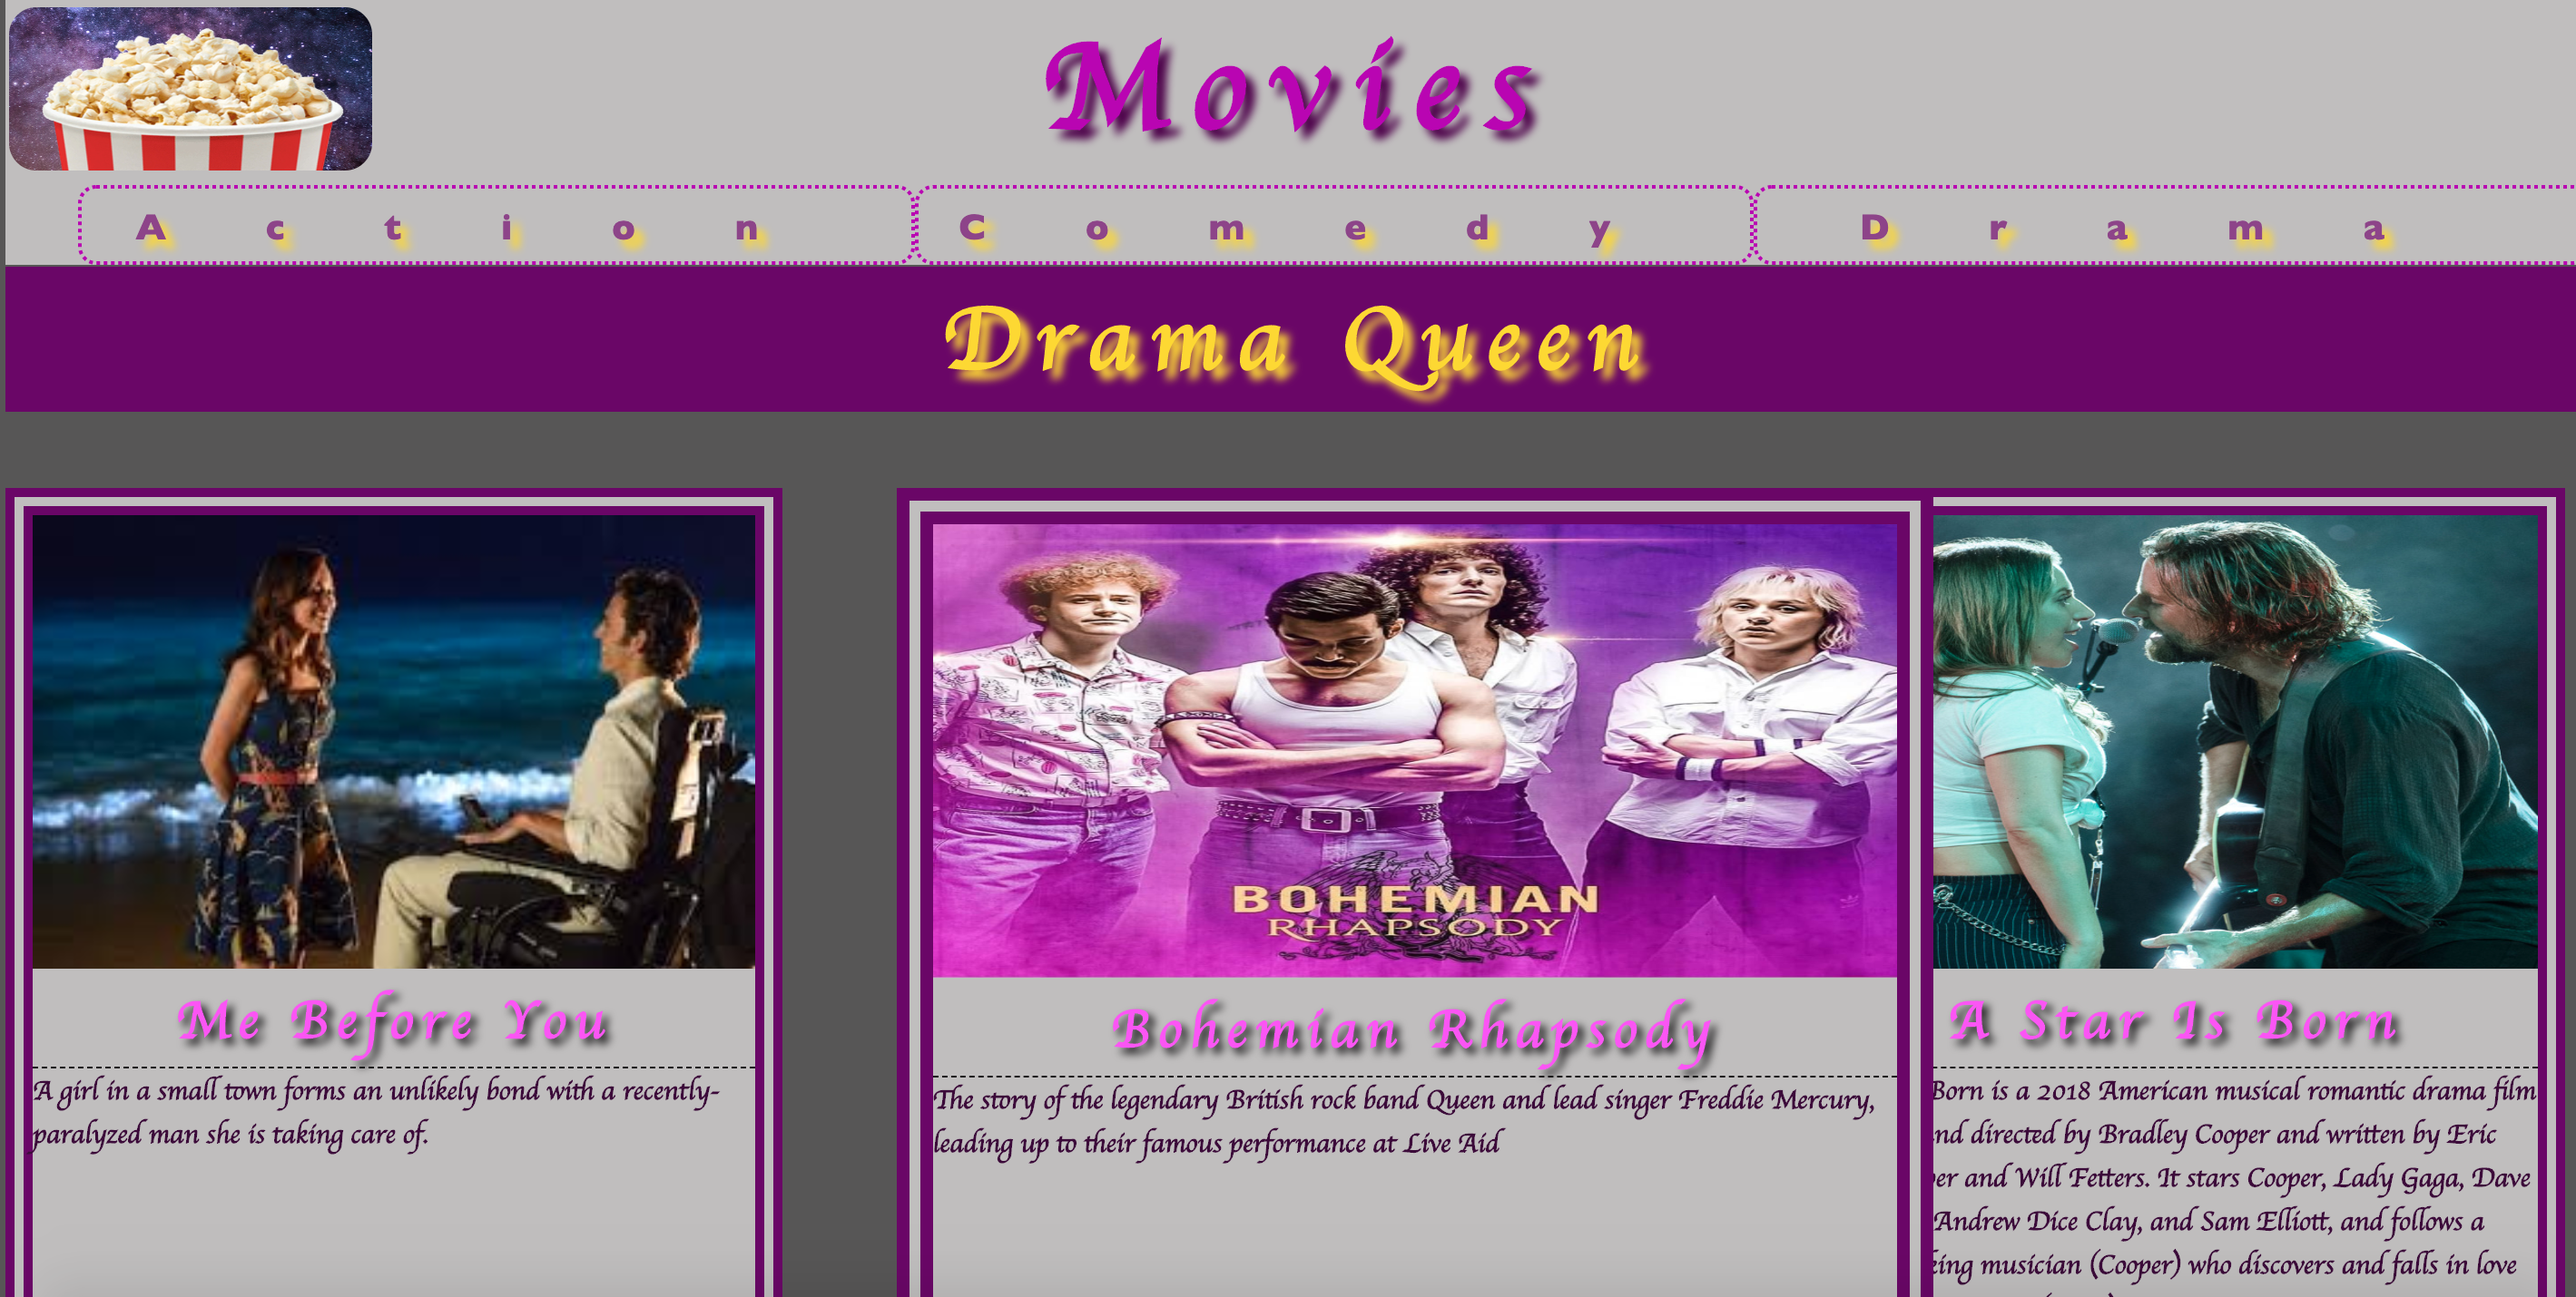
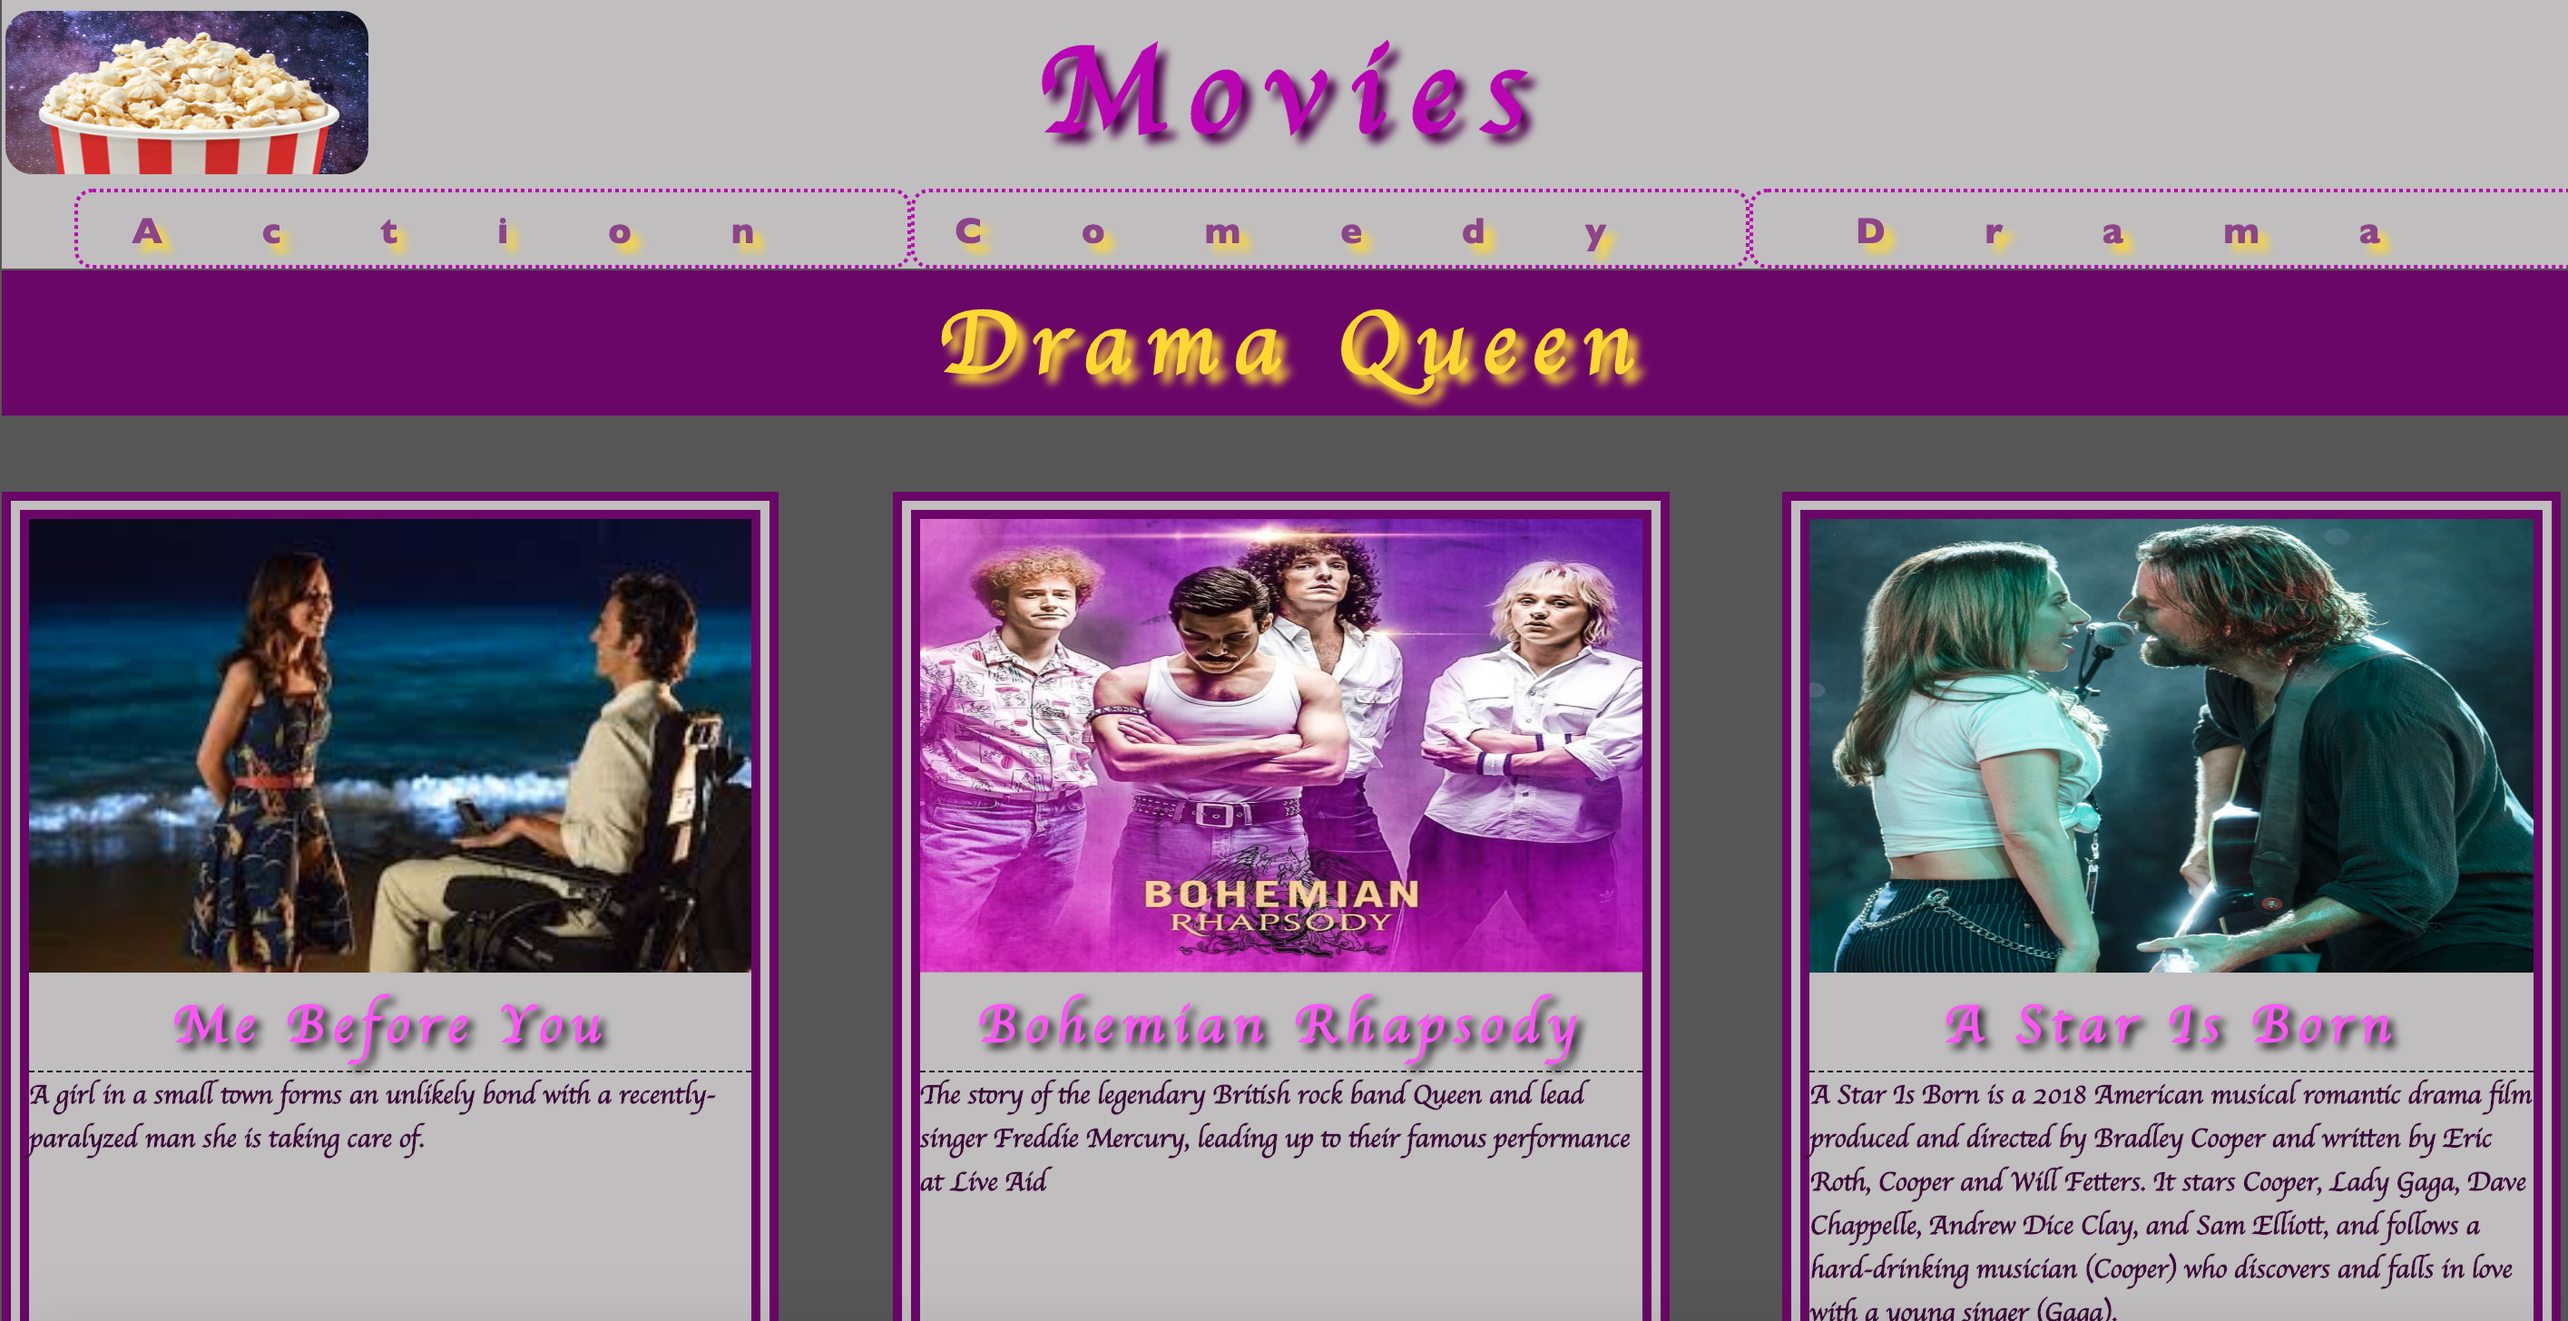
c

diff --git a/public/js/manager.js b/public/js/manager.js
@@ -1,4 +1,37 @@
-getProjects()
+// getProjects()
+function addNewProject(e) {
+    e.preventDefault();
+    let projectName=e.target.projectname.value;
+    let description=e.target.description.value;
+    let urlHeroku=e.target.urlheroku.value;
+    let urlGithub=e.target.urlgithub.value;
+    let image =e.target.image.value;
+
+    let newProject = {
+
+        projectName: projectName,
+        description: description,
+        urlHeroku: urlHeroku,
+        urlGithub: urlGithub,
+        image: image
+    }
+    fetch('/manager', {
+        method: 'POST',
+        body: JSON.stringify(newProject),
+        headers: {
+            'Content-Type': 'application/json'
+        }
+    })
+
+        .then(res => res.json())
+        .then(data => {
+            // output.innerHTML = `<h1> ${data}</h1>`;
+            console.dir(data)
+
+        }).catch(function (err) {
+            console.log('Fetch Error :-S', err)
+        })
+}
 function getProjects() {
     fetch('/getprojects')
         .then(res => {
@@ -49,42 +82,3 @@ console.log(dataDOM)
 
         })
 }
-
-const carouselSlide=document.querySelector('.carousel-slide')
-const carouselImages=document.querySelectorAll('img')
-
-const prevBtn=document.querySelector('.prevBtn')
-const nextBtn=document.querySelector('.nextBtn')
-
-let counter=1;
-const size=carouselImages[0].clientWidth;
-console.dir(carouselImages)
-carouselSlide.style.transform='translateX('+ (-size * counter)+ 'px)';
-
-nextBtn.addEventListener('click',()=>{
-    if(counter >=carouselImages.length -1)return;
-    carouselSlide.style.transition="transform 0.4s ease-in-out";
-    counter++;
-    carouselSlide.style.transform='translateX('+ (-size * counter)+ 'px)';
-})
-
-
-
-prevBtn.addEventListener('click',()=>{
-    if(counter<=0)return;
-    carouselSlide.style.transition="transform 0.4s ease-in-out";
-    counter--;
-    carouselSlide.style.transform='translateX('+ (-size * counter)+ 'px)';
-})
-carouselSlide.addEventListener('transitionend',()=>{
-    if(carouselImages[counter].className==='lastPic'){
-        carouselSlide.style.transition='none';
-        counter=carouselImages.length-2;
-        carouselSlide.style.transform='translateX('+ (-size * counter)+ 'px)';
-    }
-    if(carouselImages[counter].className==='firstPic'){
-        carouselSlide.style.transition='none';
-        counter=carouselImages.length-counter
-        carouselSlide.style.transform='translateX('+ (-size * counter)+ 'px)';
-    }
-})

diff --git a/public/index.html b/public/index.html
@@ -19,14 +19,14 @@
     <div class="menu">
         <a href="#">HOME</a>
         <a href="#">ABOUT</a>
-        <a href="#">CONTACT</a>
+        <a href="manager.html">Manager</a>
         <a href="#">Help</a>
         <a href="#" class='closebtn' onclick="closeMenu()">&times;</a>
     </div>
     <div class="carousel-container">
         <button class='fas fa-angle-double-left prevBtn'>&#xf100</button>
-        <button class="fas fa-angle-double-right nextBtn">&#xf101</button>
-        <div class="carousel-slide">
+        <button class="fas fa-angle-double-right nextBtn">&#xf101</button> 
+        <!-- <div class="carousel-slide">
             <img src="img/fetchChater.jpg" alt="" style="width: 100%;height:30vw;" class="lastPic">
             <img src="img/movies.jpg" alt="" style="width: 100%;height:30vw;">
             <img src="img/bmi.jpg" alt="" style="width: 100%;height:30vw;">
@@ -37,12 +37,24 @@
             <img src="img/backend.jpg" alt="" style="width: 100%;height:30vw;">
             <img src="img/fetchChater.jpg" alt="" style="width: 100%;height:30vw;">
             <img src="img/movies.jpg" alt="" style="width: 100%;height:30vw;" class="firstPic">
-        </div>
+        </div> -->
+
+
+        <div class="carousel-slide">
+                <!-- <img src="img/backend.jpg" alt="" style="width: 100%;height:30vw;" class="lastPic" >
+                 <img src="img/youtube.jpg" alt="" style="width: 100%;height:30vw;" >
+                  <img src="img/fetchChater.jpg" alt="" style="width: 100%;height:30vw;" > 
+                  <img src="img/backend.jpg" alt="" style="width: 100%;height:30vw;" > 
+                <img src="img/youtube.jpg" alt= "" style="width: 100%;height:30vw;" class="firstPic" > -->
+            </div>
+
     </div>
     <canvas></canvas>
+    <script src="js/manager.js"></script>
     <script src="js/carousel.js"></script>
     <script src="js/hamburger.js"></script>
     <script src="js/canvas.js"></script>
+    
 
 
 

diff --git a/server.js b/server.js
@@ -8,8 +8,50 @@ app.use(express.static('public'));
 app.use(bodyParser.json());
 app.use(bodyParser.urlencoded({extended: true}));
 
+const url = "mongodb+srv://jenn_yaffe:Fuckthis1234!@cluster0-raagg.mongodb.net/myProjects?retryWrites=true&w=majority";
+mongoose.connect(url, { useNewUrlParser: true ,useUnifiedTopology: true});
+const db = mongoose.connection;
+
+
+db.on('error', console.error.bind(console, 'connection error:'));
+db.once('open', () => {
+    console.log('we are connected!');
+});
 
 
 
+const Schema = mongoose.Schema;
+const ProjectSchema = new Schema({
+    projectName: String,
+    description: String,
+    urlHeroku:String,
+    urlGithub: String,
+    image: String
+});
+
+const ProjectModel = mongoose.model('project', ProjectSchema);
+
+app.get('/getprojects', (req, res) => {
+    ProjectModel.find({}, (err, docs) => {
+        if (err) throw err;
+        console.log('found', docs)
+        res.send(docs)
+
+    })
+})
+app.post('/manager', (req, res) => {
+    const data = req.body
+    console.log(data)
+    const contact = new ProjectModel(data);
+
+    contact.save().then(doc => {
+        console.log('doc:',doc);
+        res.send(doc)
+    }).catch(err => {
+        console.log(err)
+    })
+})
+
+    
 
 app.listen(port, () => console.log(`server listening on port ${port}!!!`))

diff --git a/public/manager.html b/public/manager.html
@@ -1,0 +1,32 @@
+<!DOCTYPE html>
+<html lang="en">
+<head>
+    <meta charset="UTF-8">
+    <meta name="viewport" content="width=device-width, initial-scale=1.0">
+    <meta http-equiv="X-UA-Compatible" content="ie=edge">
+    <title>Document</title>
+</head>
+<body>
+    <header>My Manager</header>
+    <div class="mainmenu" onclick="openMenu()">&#9776;MENU</div>
+    <div class="menu">
+        <a href="#">HOME</a>
+        <a href="#">ABOUT</a>
+        <a href="manager.html">Manager</a>
+        <a href="#">Help</a>
+        <a href="#" class='closebtn' onclick="closeMenu()">&times;</a>
+    </div>
+     <form onsubmit="addNewProject(event)">
+       Project Name: <input type="text" name="projectname">
+       Descprition: <input type="text" name="description">
+       URL Heroku: <input type="text" name="urlheroku">
+       URL Github: <input type="text" name="urlgithub">
+       Image:<input type="text" name="image">
+       <input type="submit" value="Save">
+    </form>
+    <button onclick="getProjects()">Get Projects</button>
+    <div class="root"></div>
+    <script src="js/manager.js"></script>
+
+</body>
+</html>
